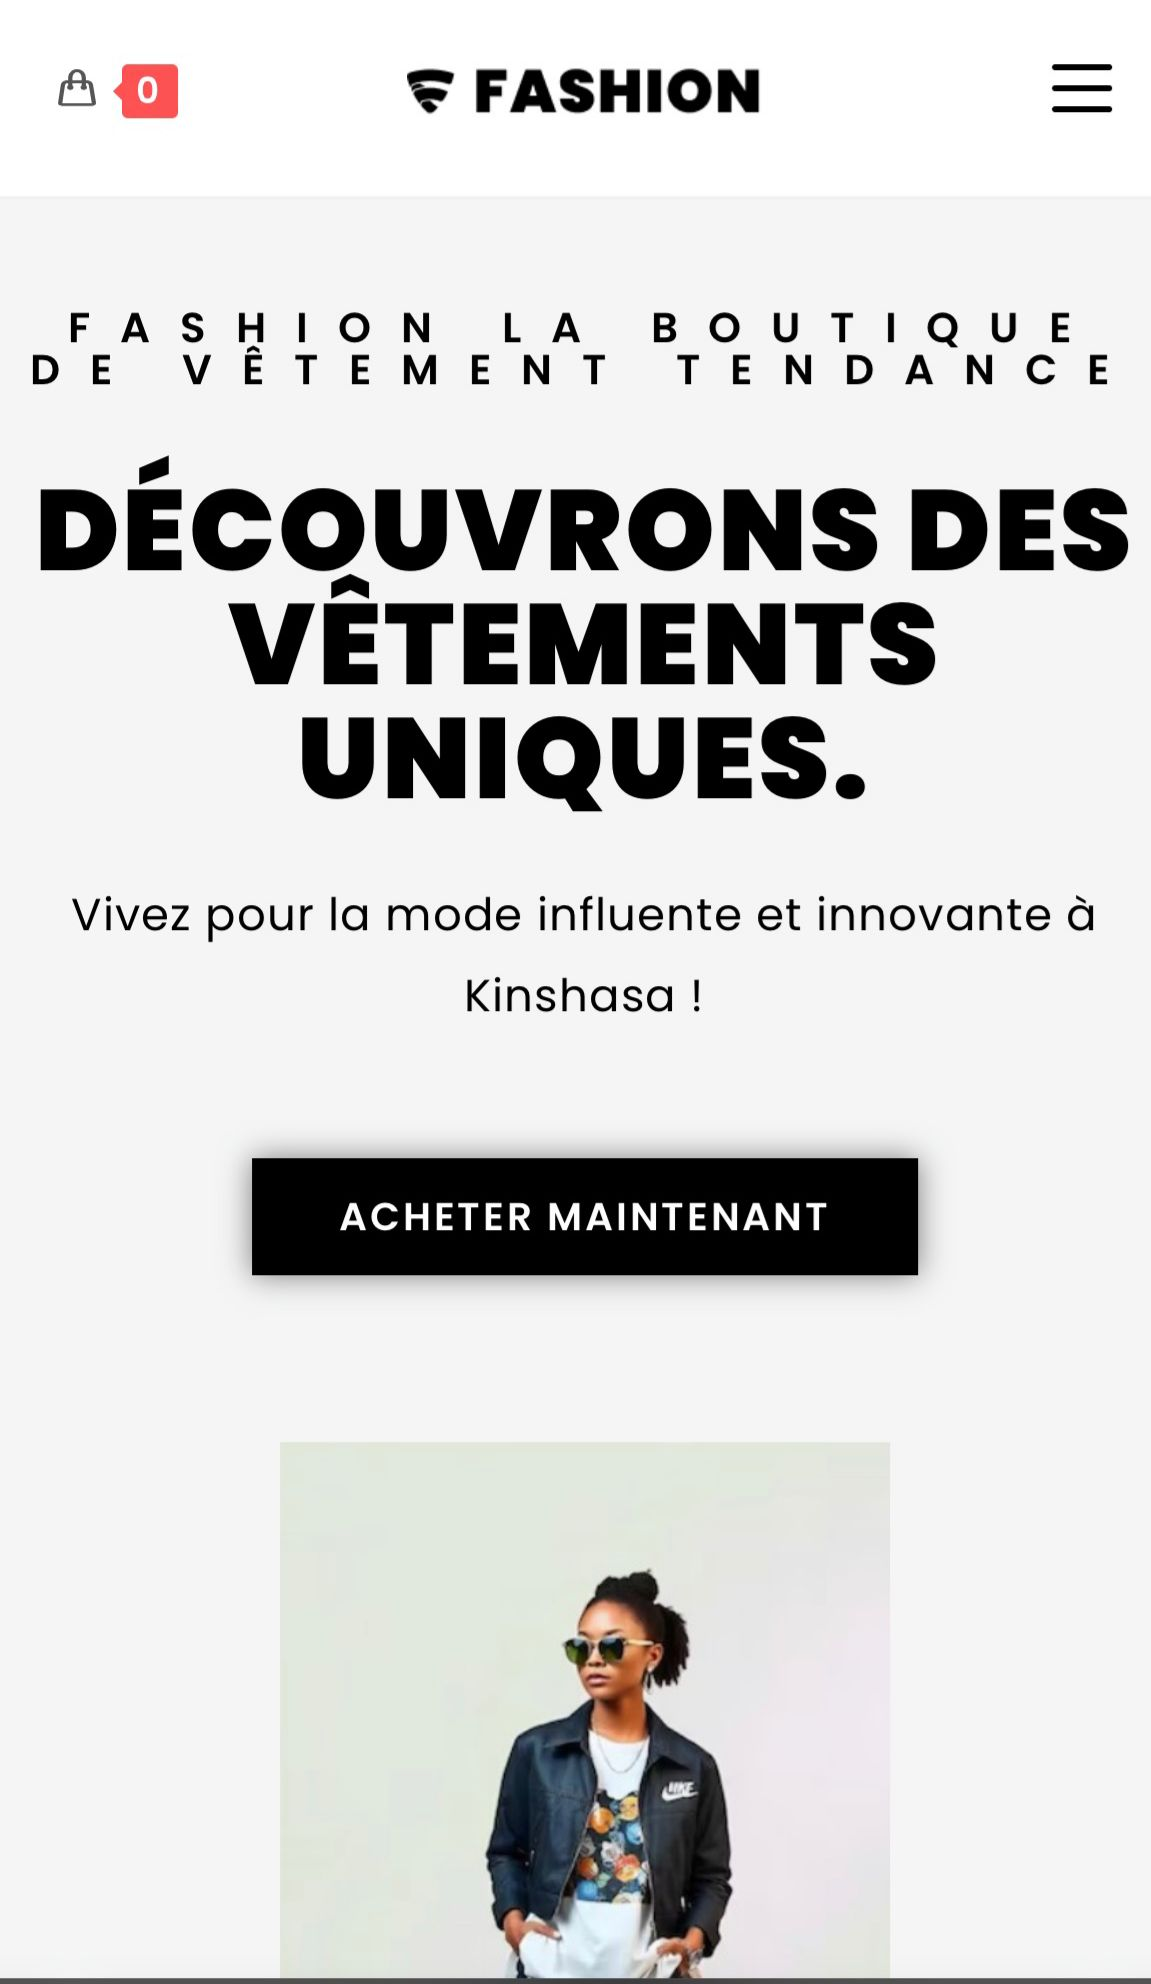
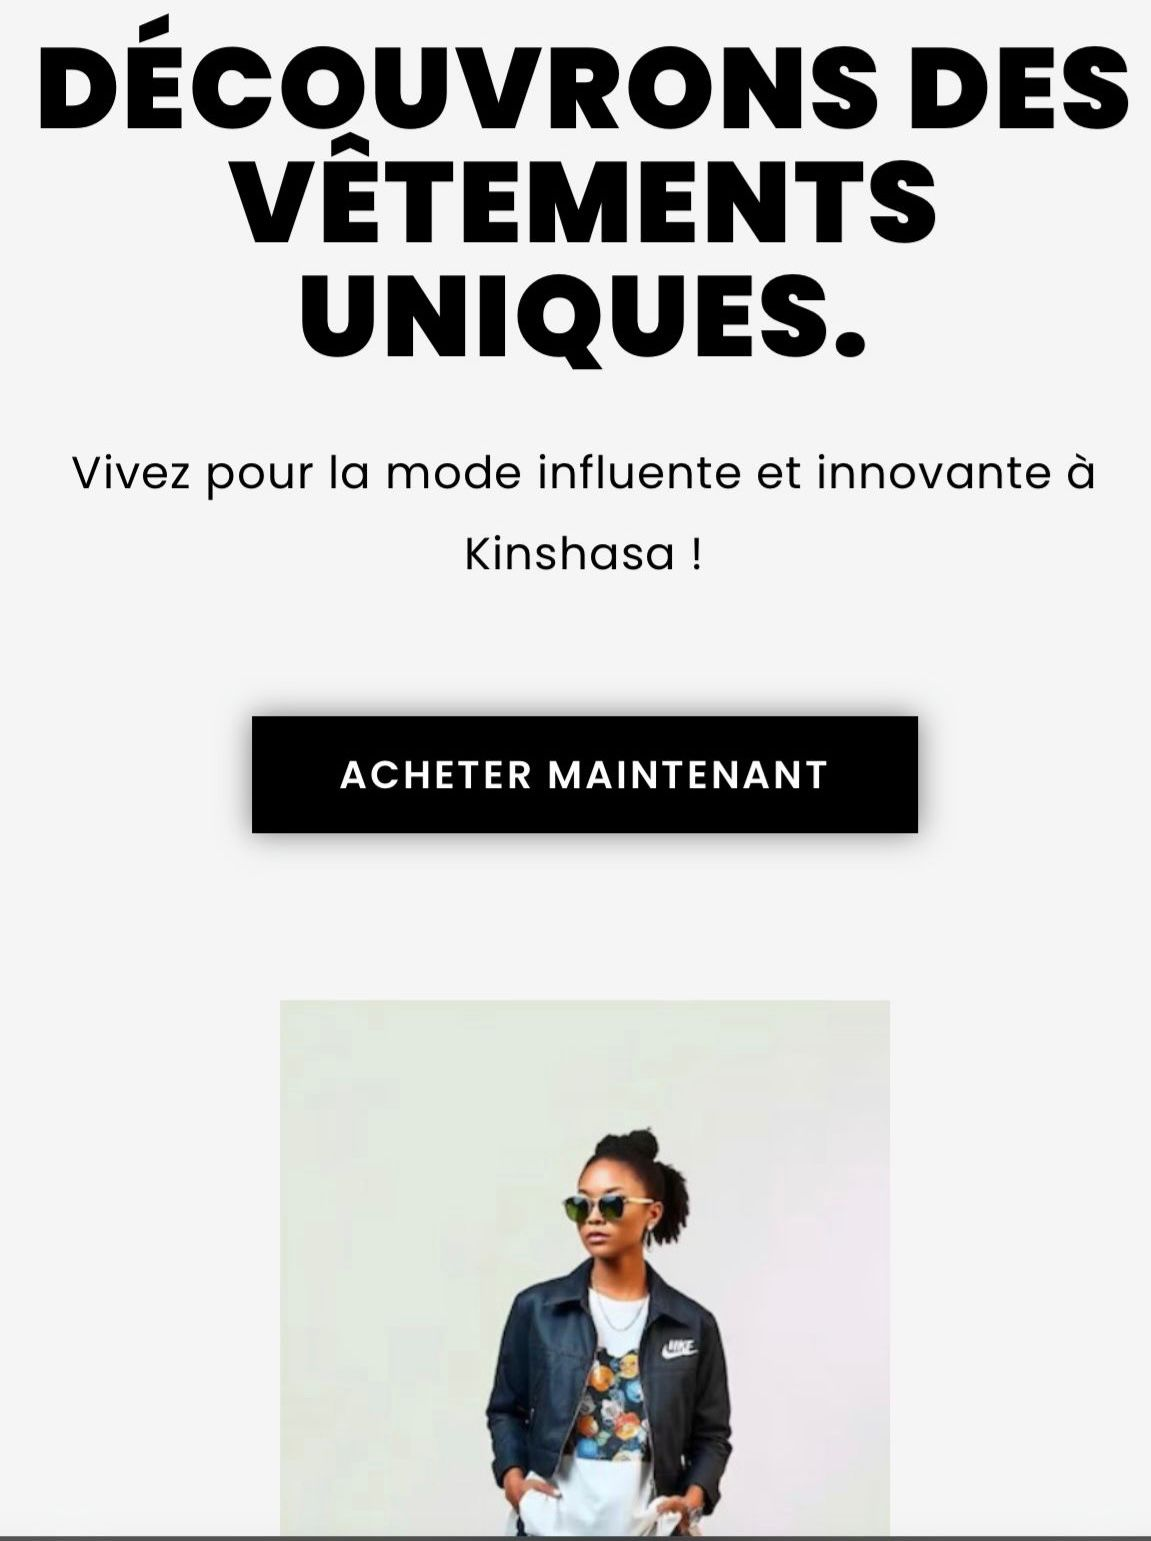
change the photo

Changed region(s): [[0.0, 0.0, 1.0, 1.0], [0.0304, 0.1557, 0.1216, 0.1869], [0.152, 0.1557, 0.1825, 0.1869]]

diff --git a/index.html b/index.html
@@ -22,7 +22,7 @@
         <!-- Menu desktop -->
         <nav class="hidden md:flex space-x-6 font-semibold uppercase text-sm">
           <!-- <a href="#" class="hover:text-purple-600 transition">Maison</a> -->
-          <a href="#about" class="hover:text-purple-600 transition">À propos</a>
+          <a href="#about" class="hover:text-purple-600 transition">À propos de moi</a>
           <a href="#Projets" class="hover:text-purple-600 transition">Projets</a>
           <!-- <a href="#contact" class="hover:text-purple-600 transition">Contact</a> -->
         </nav>
@@ -40,7 +40,7 @@
     <div id="mobile-menu" class="md:hidden hidden bg-white shadow-lg">
       <div class="px-2 pt-2 pb-3 space-y-1 sm:px-3">
         <!-- <a href="#" class="block px-3 py-2 hover:text-purple-600">Maison</a> -->
-        <a href="#about" class="block px-3 py-2 hover:text-purple-600">À propos</a>
+        <a href="#about" class="block px-3 py-2 hover:text-purple-600">À propos de moi</a>
         <a href="#Projets" class="block px-3 py-2 hover:text-purple-600">Projets</a>
         <!-- <a href="#contact" class="block px-3 py-2 hover:text-purple-600">Contact</a> -->
       </div>
